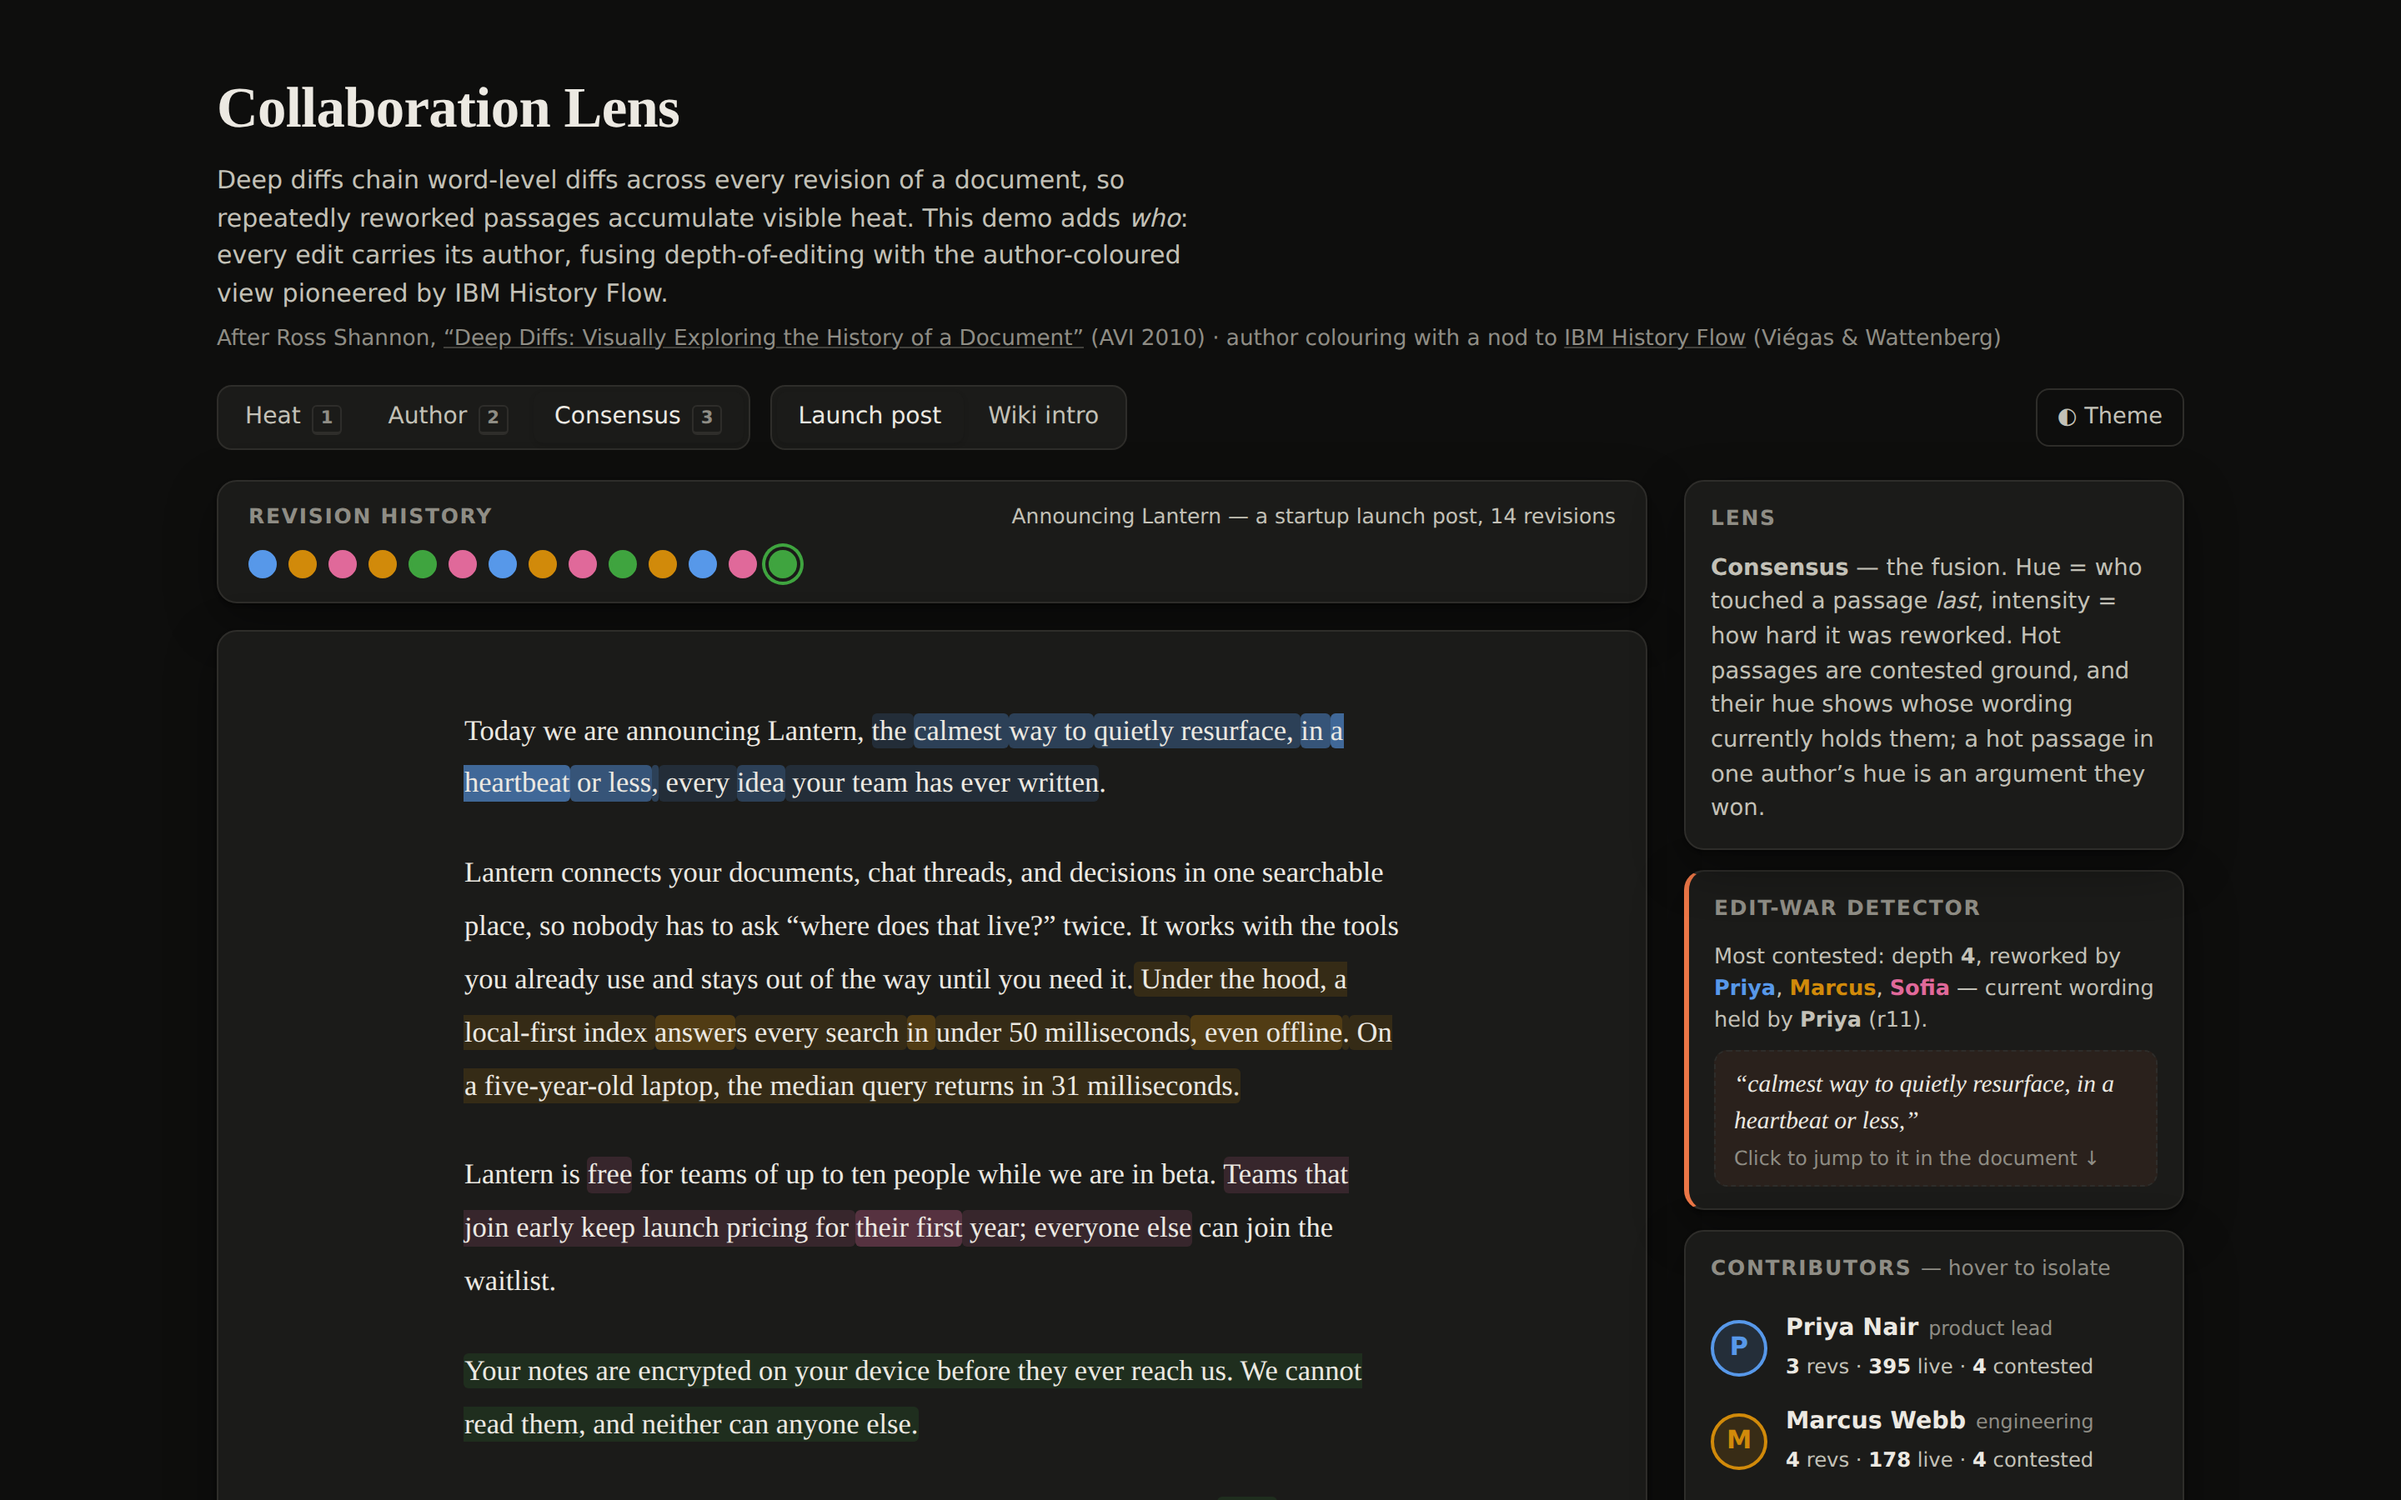
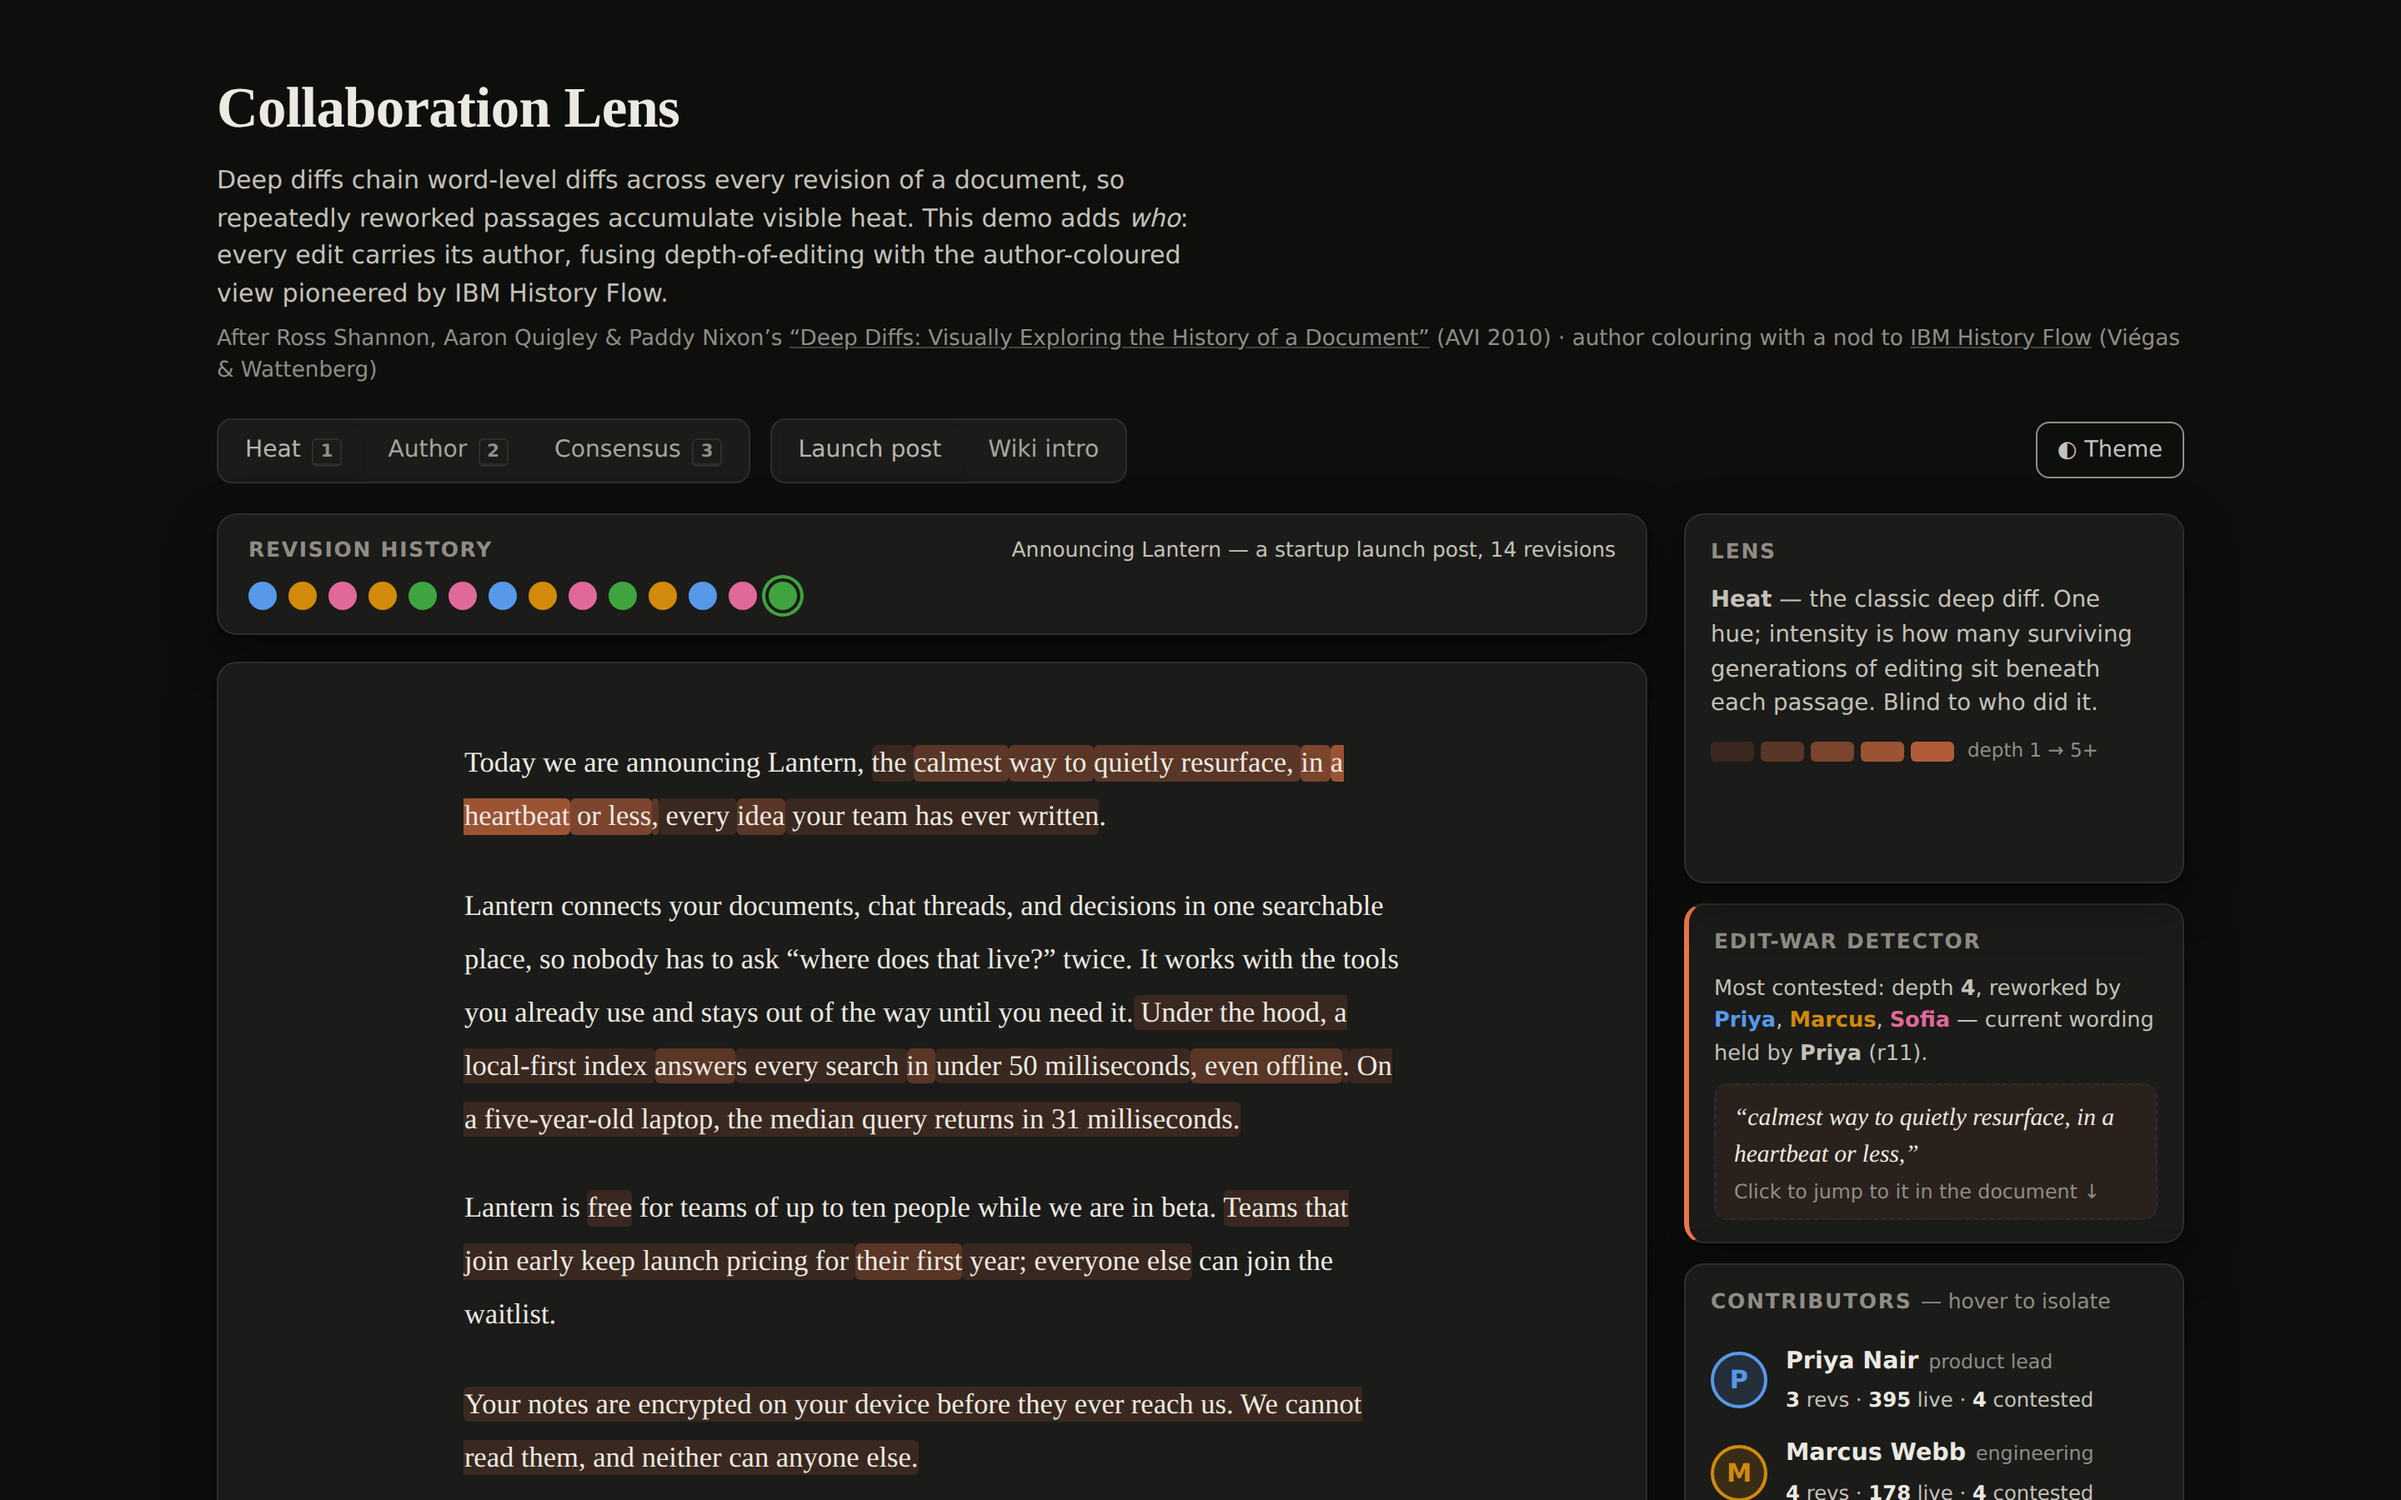
Collaboration Lens review fixes: complete attribution, unstick hover isolation
The visible credit paragraph said only 'After Ross Shannon' while the
file's own comment already carried the full Shannon, Quigley & Nixon
attribution - the visible line now matches. Hover-isolation gains the
same document-level mouseleave safety net the tooltip code already had,
so exiting the browser window no longer leaves the document dimmed.
Screenshots retaken for the visible credit change.

Review ruled out the rest with independent recomputation: rail stats
and edit-war detection match exact recounts in both specimens at every
scrub position, marker transform is a byte-for-byte logic match with
src/deep-diff.js, scrub-to-k preserves absolute revision indices so
author mapping never shifts, and escaping is safe at all call sites.

Claude-Session: https://claude.ai/code/session_01ViQ4C8tVdJAdZTYnDgMjAu

diff --git a/demos/collab-lens.html b/demos/collab-lens.html
@@ -323,7 +323,7 @@
     repeatedly reworked passages accumulate visible heat. This demo adds <em>who</em>:
     every edit carries its author, fusing depth-of-editing with the author-coloured
     view pioneered by IBM History&nbsp;Flow.</p>
-    <p class="credit">After Ross Shannon,
+    <p class="credit">After Ross Shannon, Aaron Quigley &amp; Paddy Nixon’s
       <a href="https://rossshannon.com/publications/softcopies/Shannon2010DeepDiffs.pdf">“Deep Diffs: Visually Exploring the History of a Document”</a>
       (AVI 2010) · author colouring with a nod to
       <a href="https://alumni.media.mit.edu/~fviegas/projects/historyflow/">IBM History Flow</a> (Viégas &amp; Wattenberg)</p>
@@ -3076,6 +3076,13 @@ module.exports['DIFF_EQUAL'] = DIFF_EQUAL;
     if (chip) docEl.dataset.hl = chip.dataset.author;
   });
   chipsEl.addEventListener('focusout', () => { delete docEl.dataset.hl; });
+  /* safety net: if the pointer leaves the whole window while a chip is
+     hovered (no mouseout ever reaches the chip), don't leave the doc dimmed —
+     mirrors the tooltip's own document-level mouseleave guard below. */
+  document.addEventListener('mouseleave', () => {
+    delete docEl.dataset.hl;
+    document.querySelectorAll('.chip.active').forEach(c => c.classList.remove('active'));
+  });
 
   /* theme toggle — explicit choice wins over prefers-color-scheme */
   $('theme-btn').addEventListener('click', () => {
